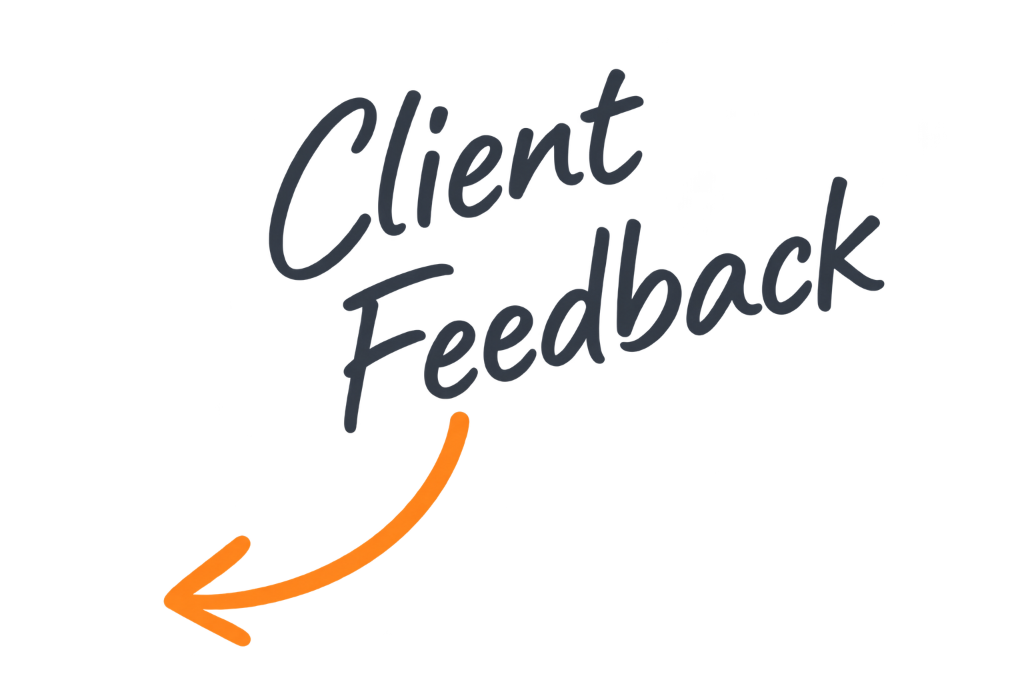
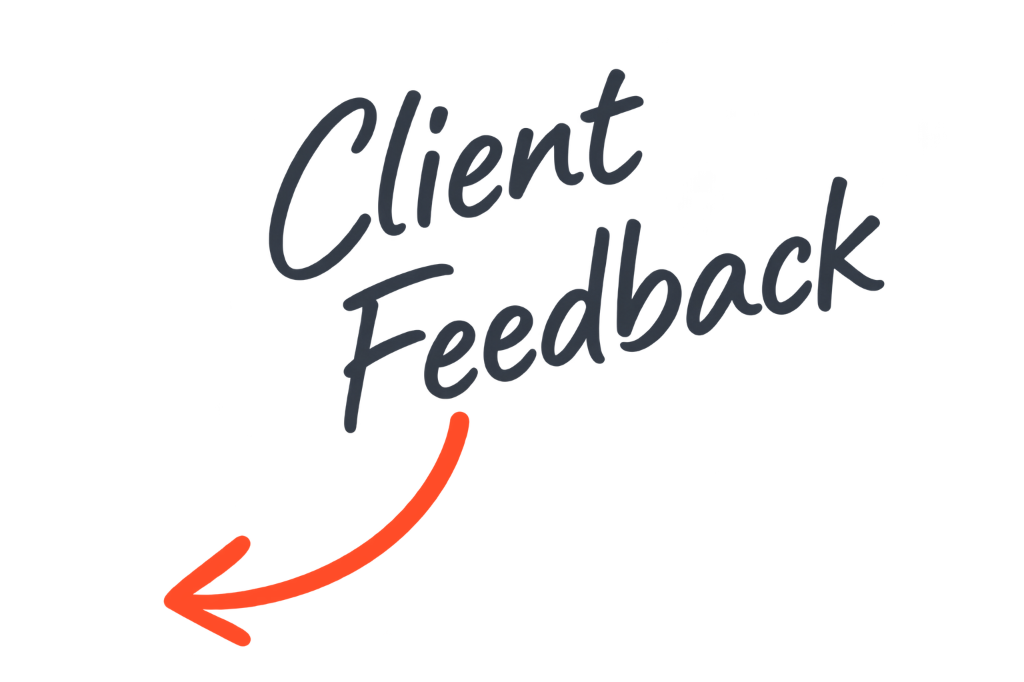
second commit

Changed region(s): [[0.1562, 0.585, 0.4688, 0.9545]]

diff --git a/index.html b/index.html
@@ -356,30 +356,265 @@
         </div>
     </section>
 
-    <!-- About / Value Strip -->
-    <section id="about" class="py-24 border-y border-gray-200">
-        <div class="max-w-7xl mx-auto px-6 reveal flex flex-col lg:flex-row items-center gap-12 lg:gap-8 justify-between">
-            <div class="flex flex-wrap justify-center lg:justify-start gap-3 w-full lg:w-1/3">
-                <span class="pill-badge px-4 py-2 rounded-full text-sm font-medium">Storytelling</span>
-                <span class="pill-badge px-4 py-2 rounded-full text-sm font-medium">Color Grading</span>
-                <span class="pill-badge px-4 py-2 rounded-full text-sm font-medium">Sound Design</span>
-            </div>
-            
-            <div class="text-center lg:text-left w-full lg:w-1/3">
-                <span class="eyebrow block mb-4">Hello!</span>
-                <p class="text-lg md:text-xl text-gray-800 leading-relaxed font-medium">
-                    I'm Aditya, a video editor who turns raw footage into content people actually finish watching. From long-form YouTube stories to punchy short-form cuts and polished brand films, I focus on pacing, sound, and story â€” so every edit feels intentional, not just trimmed.
-                </p>
-            </div>
-            
-            <div class="flex flex-wrap justify-center lg:justify-end gap-3 w-full lg:w-1/3">
-                <span class="pill-badge px-4 py-2 rounded-full text-sm font-medium">Motion Graphics</span>
-                <span class="pill-badge px-4 py-2 rounded-full text-sm font-medium">Fast Turnaround</span>
-                <span class="pill-badge px-4 py-2 rounded-full text-sm font-medium">Retention-Focused Edits</span>
-            </div>
+    <!-- About Me Section -->
+    <!-- About Me Section -->
+    <section id="about" style="background:#F4F4F2;padding:80px 0;border-top:1px solid #e2e2e2;border-bottom:1px solid #e2e2e2;">
+        <div style="max-width:1200px;margin:0 auto;padding:0 2rem;">
+            <div class="about-grid">
+
+                <!-- ====== LEFT: Photo Card ====== -->
+                <div class="about-photo-col">
+                    <div style="position:relative;display:inline-block;width:100%;max-width:260px;margin:0 auto;">
+
+                        <!-- Editor & Creator at heart annotation PNG -->
+                        <div class="about-annotation" style="position:absolute;left:-155px;top:-30px;z-index:10;width:140px;">
+                            <img src="assets/annotation-editor-creator.png" alt="Editor & Creator at heart" style="width:100%;display:block;">
+                        </div>
+
+                        <!-- Decorative tick marks (tick PNG positioned above photo) -->
+                        <div class="about-ticks" style="position:absolute;top:-30px;right:-10px;z-index:10;width:70px;">
+                            <img src="assets/annotation-editor-creator.png" alt="" style="width:100%;display:block;opacity:0;" aria-hidden="true">
+                        </div>
+
+                        <!-- Background rotated card (paper stack effect) -->
+                        <div style="position:absolute;inset:0;background:#E8E8E8;border-radius:24px;transform:rotate(-3deg);z-index:1;"></div>
+
+                        <!-- Main photo card -->
+                        <div class="about-photo-card" style="position:relative;z-index:2;border-radius:24px;overflow:hidden;transform:rotate(2deg);box-shadow:0 12px 40px rgba(0,0,0,0.13);">
+                            <img src="https://images.unsplash.com/photo-1507003211169-0a1dd7228f2d?q=80&w=600&auto=format&fit=crop&crop=face"
+                                 alt="Aditya — Video Editor"
+                                 style="width:100%;display:block;aspect-ratio:3/4;object-fit:cover;object-position:top;">
+                        </div>
+
+                        <!-- Floating name badge -->
+                        <div style="position:absolute;bottom:-14px;left:-10px;z-index:10;background:#fff;border-radius:12px;padding:10px 14px;box-shadow:0 4px 18px rgba(0,0,0,0.12);display:flex;align-items:center;gap:10px;">
+                            <span style="width:10px;height:10px;border-radius:50%;background:#FF4B26;flex-shrink:0;"></span>
+                            <div>
+                                <div style="font-weight:700;font-size:0.88rem;color:#111;line-height:1.2;">Aditya</div>
+                                <div style="font-size:0.75rem;color:#999;line-height:1.2;">Video Editor</div>
+                            </div>
+                        </div>
+
+                    </div>
+                </div>
+
+                <!-- ====== CENTER: Text ====== -->
+                <div class="about-text-col">
+                    <!-- Eyebrow -->
+                    <div style="display:flex;align-items:center;gap:10px;margin-bottom:20px;">
+                        <span style="height:1px;width:28px;background:#ccc;display:inline-block;"></span>
+                        <span style="font-size:0.7rem;letter-spacing:0.18em;text-transform:uppercase;color:#aaa;font-weight:500;white-space:nowrap;">About Me</span>
+                        <span style="height:1px;width:28px;background:#ccc;display:inline-block;"></span>
+                    </div>
+
+                    <!-- Headline -->
+                    <h2 class="about-headline">
+                        <span class="about-line1 reveal" style="display:block;font-family:'Inter','Geist',sans-serif;font-weight:800;font-size:clamp(1.8rem,3.5vw,2.6rem);color:#0A0A0A;line-height:1.1;letter-spacing:-0.02em;">Turning Raw Footage</span>
+                        <span class="about-line2 reveal" style="display:block;font-family:'Playfair Display',serif;font-style:italic;font-weight:600;font-size:clamp(1.8rem,3.5vw,2.6rem);color:#0A0A0A;line-height:1.2;letter-spacing:-0.01em;position:relative;">
+                            Into <span class="about-stories" style="position:relative;display:inline-block;">Stories People Watch.
+                                <!-- Tapered lens underline — thin at both ends, thicker in the middle, 50% opacity -->
+                                <svg class="stories-underline" viewBox="0 0 400 10" preserveAspectRatio="none" style="position:absolute;bottom:-5px;left:0;width:100%;height:10px;opacity:0.5;">
+                                    <path d="M0,5 C80,1 320,1 400,5 C320,9 80,9 0,5 Z" fill="#FF4B26" pathLength="1"/>
+                                </svg>
+                            </span>
+                        </span>
+
+                    </h2>
+
+                    <!-- Body -->
+                    <p class="reveal" style="color:#666;font-size:1rem;line-height:1.7;margin:20px 0 28px;max-width:420px;">
+                        I'm Aditya, a video editor who turns raw footage into content people actually finish watching. From long-form YouTube stories to punchy short-form cuts and polished brand films, I focus on pacing, sound, and story &mdash; so every edit feels intentional, not just trimmed.
+                    </p>
+
+                    <!-- CTA Row -->
+                    <div class="reveal" style="display:flex;align-items:center;gap:20px;flex-wrap:wrap;">
+                        <a href="https://calendly.com/adivisualsbusiness/30min" target="_blank"
+                           class="about-cta-btn"
+                           style="display:inline-flex;align-items:center;gap:8px;background:#0A0A0A;color:#fff;padding:14px 26px;border-radius:50px;font-size:0.95rem;font-weight:600;text-decoration:none;transition:all 0.3s ease;">
+                            Let's Work Together
+                            <span class="about-arrow" style="display:inline-block;transition:transform 0.3s ease;">→</span>
+                        </a>
+                        <p style="font-size:0.82rem;color:#aaa;line-height:1.4;margin:0;">Good stories deserve<br>great edits.</p>
+                    </div>
+                </div>
+
+                <!-- ====== RIGHT: Feature List ====== -->
+                <div class="about-features-col">
+                    <!-- "What I bring to the table" annotation PNG — right aligned -->
+                    <div class="about-annotation" style="position:relative;margin-bottom:2px;text-align:right;">
+                        <img src="assets/annotation-what-i-bring.png" alt="What I bring to the table" style="width:160px;display:inline-block;">
+                    </div>
+
+                    <!-- Feature cards -->
+                    <div style="display:flex;flex-direction:column;gap:10px;">
+                        <div class="feature-card reveal" style="--delay:0ms">
+                            <div class="feature-icon-box">
+                                <svg width="18" height="18" viewBox="0 0 24 24" fill="none" stroke="currentColor" stroke-width="2" stroke-linecap="round" stroke-linejoin="round"><rect x="2" y="7" width="20" height="15" rx="2"/><polyline points="17 2 12 7 7 2"/><line x1="12" y1="12" x2="12" y2="17"/><line x1="9.5" y1="14.5" x2="14.5" y2="14.5"/></svg>
+                            </div>
+                            <div>
+                                <div class="feature-title">Storytelling</div>
+                                <div class="feature-sub">Edits that create emotion</div>
+                            </div>
+                        </div>
+                        <div class="feature-card reveal" style="--delay:80ms">
+                            <div class="feature-icon-box">
+                                <svg width="18" height="18" viewBox="0 0 24 24" fill="none" stroke="currentColor" stroke-width="2" stroke-linecap="round"><circle cx="12" cy="12" r="3"/><path d="M20.5 12a8.5 8.5 0 1 1-17 0 8.5 8.5 0 0 1 17 0z"/><path d="M12 2v3M12 19v3M2 12h3M19 12h3"/></svg>
+                            </div>
+                            <div>
+                                <div class="feature-title">Color Grading</div>
+                                <div class="feature-sub">Cinematic &amp; clean visuals</div>
+                            </div>
+                        </div>
+                        <div class="feature-card reveal" style="--delay:160ms">
+                            <div class="feature-icon-box">
+                                <svg width="18" height="18" viewBox="0 0 24 24" fill="none" stroke="currentColor" stroke-width="2" stroke-linecap="round"><path d="M2 13h4l3-9 4 18 3-9h6"/></svg>
+                            </div>
+                            <div>
+                                <div class="feature-title">Sound Design</div>
+                                <div class="feature-sub">Audio that keeps people hooked</div>
+                            </div>
+                        </div>
+                        <div class="feature-card reveal" style="--delay:240ms">
+                            <div class="feature-icon-box">
+                                <svg width="18" height="18" viewBox="0 0 24 24" fill="none" stroke="currentColor" stroke-width="2" stroke-linecap="round"><rect x="2" y="3" width="20" height="5" rx="1"/><rect x="2" y="10" width="20" height="5" rx="1"/><rect x="2" y="17" width="20" height="5" rx="1"/></svg>
+                            </div>
+                            <div>
+                                <div class="feature-title">Motion Graphics</div>
+                                <div class="feature-sub">Ideas that move</div>
+                            </div>
+                        </div>
+                        <div class="feature-card reveal" style="--delay:320ms">
+                            <div class="feature-icon-box">
+                                <svg width="18" height="18" viewBox="0 0 24 24" fill="none" stroke="currentColor" stroke-width="2" stroke-linecap="round" stroke-linejoin="round"><polygon points="13 2 3 14 12 14 11 22 21 10 12 10 13 2"/></svg>
+                            </div>
+                            <div>
+                                <div class="feature-title">Fast Turnaround</div>
+                                <div class="feature-sub">Reliable &amp; on time</div>
+                            </div>
+                        </div>
+                    </div>
+                </div>
+
+            </div><!-- end about-grid -->
+
         </div>
     </section>
 
+    <style>
+        @import url('https://fonts.googleapis.com/css2?family=Caveat:wght@400;600&display=swap');
+
+        .about-grid {
+            display: grid;
+            grid-template-columns: 280px 1fr 280px;
+            gap: 48px;
+            align-items: center;
+        }
+        .about-photo-col { display:flex; justify-content:center; }
+        .about-text-col  { }
+        .about-features-col { }
+
+        .feature-card {
+            background: #fff;
+            border-radius: 16px;
+            padding: 12px 16px;
+            display: flex;
+            align-items: center;
+            gap: 12px;
+            box-shadow: 0 1px 6px rgba(0,0,0,0.06);
+            transition: transform 0.3s ease, box-shadow 0.3s ease;
+            transition-delay: var(--delay, 0ms);
+        }
+        .feature-card:hover {
+            transform: translateX(4px);
+            box-shadow: 0 4px 16px rgba(0,0,0,0.1);
+        }
+        .feature-icon-box {
+            width: 38px;
+            height: 38px;
+            border-radius: 10px;
+            background: #F0F0F0;
+            display: flex;
+            align-items: center;
+            justify-content: center;
+            flex-shrink: 0;
+            color: #333;
+        }
+        .feature-title {
+            font-weight: 700;
+            font-size: 0.88rem;
+            color: #111;
+            line-height: 1.3;
+        }
+        .feature-sub {
+            font-size: 0.75rem;
+            color: #999;
+            line-height: 1.3;
+        }
+        .about-cta-btn:hover { background: #222; }
+        .about-cta-btn:hover .about-arrow { transform: translateX(4px); }
+
+        /* SVG underline animation — scale-x draw-in */
+        .stories-underline {
+            transform-origin: left center;
+            transform: scaleX(0);
+            transition: transform 0.7s cubic-bezier(0.16, 1, 0.3, 1) 0.5s;
+        }
+        .about-line2.active .stories-underline { transform: scaleX(1); }
+
+        /* Annotation SVG draw-in */
+        .annotation-path {
+            stroke-dasharray: 100;
+            stroke-dashoffset: 100;
+            transition: stroke-dashoffset 0.8s ease 0.5s;
+        }
+        .about-annotation.active .annotation-path { stroke-dashoffset: 0; }
+
+        @media (max-width: 1024px) {
+            .about-grid {
+                grid-template-columns: 1fr 1fr;
+                gap: 32px;
+            }
+            .about-photo-col { grid-column: 1; grid-row: 1; }
+            .about-text-col  { grid-column: 2; grid-row: 1; }
+            .about-features-col { grid-column: 1 / -1; grid-row: 2; }
+            .about-features-col > div:last-child {
+                display: grid;
+                grid-template-columns: 1fr 1fr 1fr;
+                gap: 10px;
+            }
+        }
+        @media (max-width: 640px) {
+            .about-grid {
+                grid-template-columns: 1fr;
+                gap: 32px;
+            }
+            .about-photo-col, .about-text-col, .about-features-col {
+                grid-column: 1 !important;
+                grid-row: auto !important;
+            }
+            .about-features-col > div:last-child {
+                grid-template-columns: 1fr !important;
+            }
+        }
+    </style>
+
+    <script>
+        // Trigger annotation draw-in and underline on scroll
+        (function() {
+            const annotations = document.querySelectorAll('.about-annotation');
+            const line2 = document.querySelector('.about-line2');
+            const obs = new IntersectionObserver((entries) => {
+                entries.forEach(e => {
+                    if (e.isIntersecting) {
+                        e.target.classList.add('active');
+                        obs.unobserve(e.target);
+                    }
+                });
+            }, { threshold: 0.3 });
+            annotations.forEach(a => obs.observe(a));
+            if (line2) obs.observe(line2);
+        })();
+    </script>
     <!-- Process Section -->
     <section id="process" class="py-32 px-6 max-w-6xl mx-auto">
         <div class="text-center mb-20 reveal">
